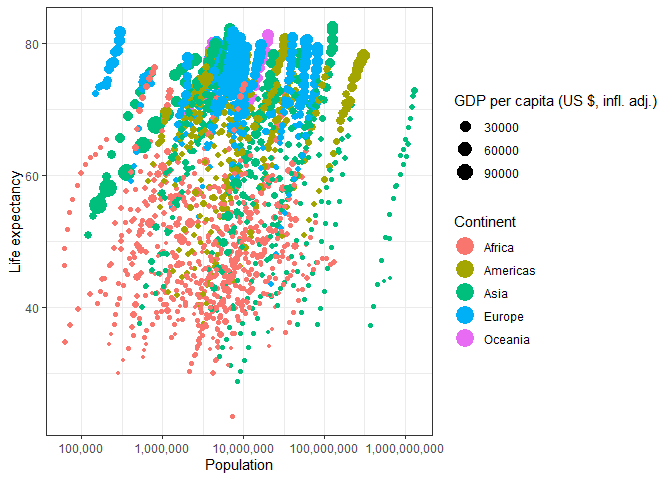
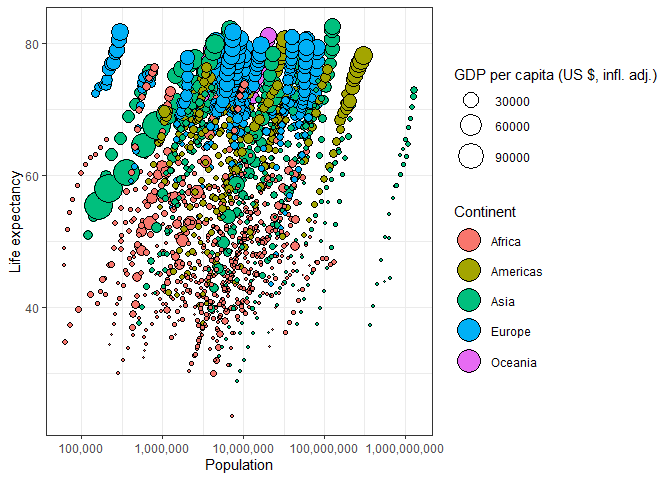
add kable and DT display

diff --git a/Assignments/Assignment_02/hw02.html b/Assignments/Assignment_02/hw02.html
@@ -374,17 +374,72 @@ summary {
 <div id="basic-dplyr" class="section level4">
 <h4>Basic ‘dplyr’</h4>
 <p><strong>1.1</strong></p>
-<pre class="r"><code>gapminder %&gt;%
-  filter(year&gt;=1970 &amp; year&lt;1980 &amp; (country==&quot;China&quot; | country==&quot;Canada&quot; | country==&quot;United States&quot;))</code></pre>
-<pre><code>## # A tibble: 6 x 6
-##   country       continent  year lifeExp       pop gdpPercap
-##   &lt;fct&gt;         &lt;fct&gt;     &lt;int&gt;   &lt;dbl&gt;     &lt;int&gt;     &lt;dbl&gt;
-## 1 Canada        Americas   1972    72.9  22284500    18971.
-## 2 Canada        Americas   1977    74.2  23796400    22091.
-## 3 China         Asia       1972    63.1 862030000      677.
-## 4 China         Asia       1977    64.0 943455000      741.
-## 5 United States Americas   1972    71.3 209896000    21806.
-## 6 United States Americas   1977    73.4 220239000    24073.</code></pre>
+<pre class="r"><code>knitr::kable(
+  gapminder %&gt;%
+    filter(year&gt;=1970 &amp; year&lt;1980 &amp; (country==&quot;China&quot; | country==&quot;Canada&quot; | country==&quot;United States&quot;))
+)</code></pre>
+<table>
+<thead>
+<tr class="header">
+<th align="left">country</th>
+<th align="left">continent</th>
+<th align="right">year</th>
+<th align="right">lifeExp</th>
+<th align="right">pop</th>
+<th align="right">gdpPercap</th>
+</tr>
+</thead>
+<tbody>
+<tr class="odd">
+<td align="left">Canada</td>
+<td align="left">Americas</td>
+<td align="right">1972</td>
+<td align="right">72.88000</td>
+<td align="right">22284500</td>
+<td align="right">18970.5709</td>
+</tr>
+<tr class="even">
+<td align="left">Canada</td>
+<td align="left">Americas</td>
+<td align="right">1977</td>
+<td align="right">74.21000</td>
+<td align="right">23796400</td>
+<td align="right">22090.8831</td>
+</tr>
+<tr class="odd">
+<td align="left">China</td>
+<td align="left">Asia</td>
+<td align="right">1972</td>
+<td align="right">63.11888</td>
+<td align="right">862030000</td>
+<td align="right">676.9001</td>
+</tr>
+<tr class="even">
+<td align="left">China</td>
+<td align="left">Asia</td>
+<td align="right">1977</td>
+<td align="right">63.96736</td>
+<td align="right">943455000</td>
+<td align="right">741.2375</td>
+</tr>
+<tr class="odd">
+<td align="left">United States</td>
+<td align="left">Americas</td>
+<td align="right">1972</td>
+<td align="right">71.34000</td>
+<td align="right">209896000</td>
+<td align="right">21806.0359</td>
+</tr>
+<tr class="even">
+<td align="left">United States</td>
+<td align="left">Americas</td>
+<td align="right">1977</td>
+<td align="right">73.38000</td>
+<td align="right">220239000</td>
+<td align="right">24072.6321</td>
+</tr>
+</tbody>
+</table>
 <p><strong>1.2</strong></p>
 <pre class="r"><code>gapminder %&gt;%
   filter(year&gt;=1970 &amp; year&lt;1980 &amp; (country==&quot;China&quot; | country==&quot;Canada&quot; | country==&quot;United States&quot;)) %&gt;%
@@ -516,15 +571,15 @@ gapminder %&gt;%
 <h4>Explore various plot types</h4>
 <p><strong>Plot 1</strong></p>
 <pre class="r"><code>gapminder %&gt;%
-  ggplot(aes(x=pop, y=lifeExp, size=gdpPercap, colour=continent)) +
-    geom_point() +
+  ggplot(aes(x=pop, y=lifeExp, size=gdpPercap, fill=continent)) +
+    geom_point(pch=21,colour=&quot;black&quot;) +
     scale_x_log10(&quot;Population&quot;, labels=scales::comma) +
     ylab(&quot;Life expectancy&quot;) +
     theme_bw() +
-    scale_size_continuous(name=&quot;GDP per capita (US $, infl. adj.)&quot;) +
-    scale_colour_discrete(name=&quot;Continent&quot;) +
-    guides(colour = guide_legend(override.aes = list(size=6)))</code></pre>
[1 lines of base64/hex data omitted]
+    scale_size_continuous(name=&quot;GDP per capita (US $, infl. adj.)&quot;, range=c(0.5,10)) +
+    scale_fill_discrete(name=&quot;Continent&quot;) +
+    guides(fill = guide_legend(override.aes = list(size=8)))</code></pre>
[1 lines of base64/hex data omitted]
 <p><strong>Plot 2</strong></p>
 <pre class="r"><code>gapminder %&gt;%
   mutate(gdp=gdpPercap*pop) %&gt;%

diff --git a/Assignments/Assignment_02/hw02.md b/Assignments/Assignment_02/hw02.md
@@ -17,21 +17,22 @@ output:
 __1.1__
 
 ```r
-gapminder %>%
-  filter(year>=1970 & year<1980 & (country=="China" | country=="Canada" | country=="United States"))
+knitr::kable(
+  gapminder %>%
+    filter(year>=1970 & year<1980 & (country=="China" | country=="Canada" | country=="United States"))
+)
 ```
 
-```
-## # A tibble: 6 x 6
-##   country       continent  year lifeExp       pop gdpPercap
-##   <fct>         <fct>     <int>   <dbl>     <int>     <dbl>
-## 1 Canada        Americas   1972    72.9  22284500    18971.
-## 2 Canada        Americas   1977    74.2  23796400    22091.
-## 3 China         Asia       1972    63.1 862030000      677.
-## 4 China         Asia       1977    64.0 943455000      741.
-## 5 United States Americas   1972    71.3 209896000    21806.
-## 6 United States Americas   1977    73.4 220239000    24073.
-```
+
+
+country         continent    year    lifeExp         pop    gdpPercap
+--------------  ----------  -----  ---------  ----------  -----------
+Canada          Americas     1972   72.88000    22284500   18970.5709
+Canada          Americas     1977   74.21000    23796400   22090.8831
+China           Asia         1972   63.11888   862030000     676.9001
+China           Asia         1977   63.96736   943455000     741.2375
+United States   Americas     1972   71.34000   209896000   21806.0359
+United States   Americas     1977   73.38000   220239000   24072.6321
 
 
 __1.2__
@@ -220,14 +221,14 @@ __Plot 1__
 
 ```r
 gapminder %>%
-  ggplot(aes(x=pop, y=lifeExp, size=gdpPercap, colour=continent)) +
-    geom_point() +
+  ggplot(aes(x=pop, y=lifeExp, size=gdpPercap, fill=continent)) +
+    geom_point(pch=21,colour="black") +
     scale_x_log10("Population", labels=scales::comma) +
     ylab("Life expectancy") +
     theme_bw() +
-    scale_size_continuous(name="GDP per capita (US $, infl. adj.)") +
-    scale_colour_discrete(name="Continent") +
-    guides(colour = guide_legend(override.aes = list(size=6)))
+    scale_size_continuous(name="GDP per capita (US $, infl. adj.)", range=c(0.5,10)) +
+    scale_fill_discrete(name="Continent") +
+    guides(fill = guide_legend(override.aes = list(size=8)))
 ```
 
 ![](hw02_files/figure-html/ex3_plot1-1.png)<!-- -->
